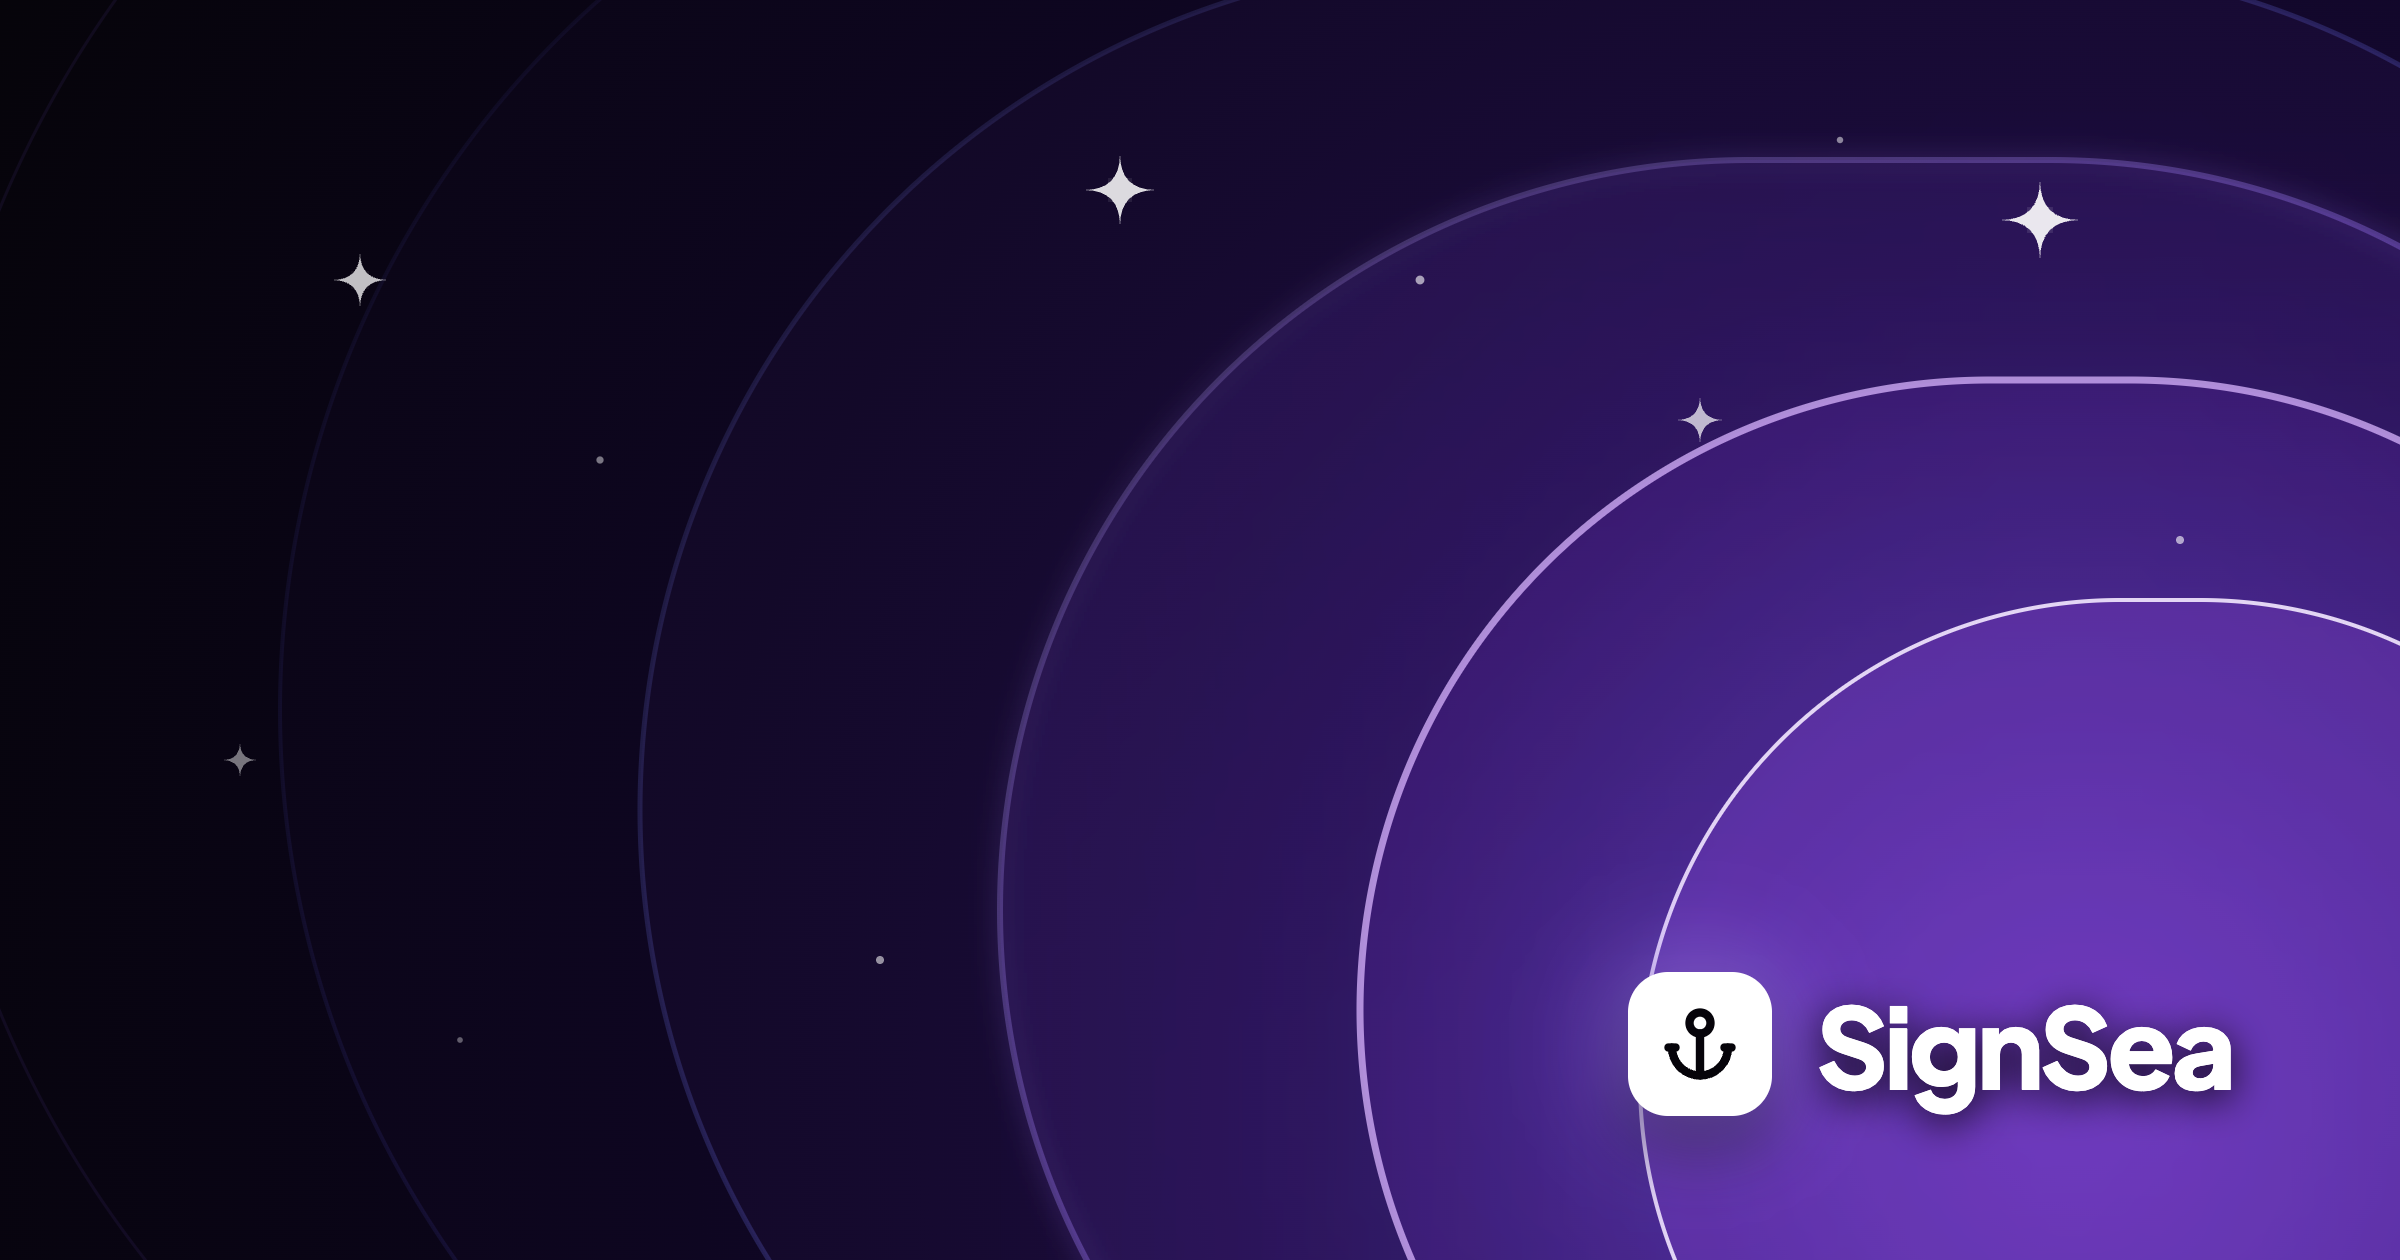
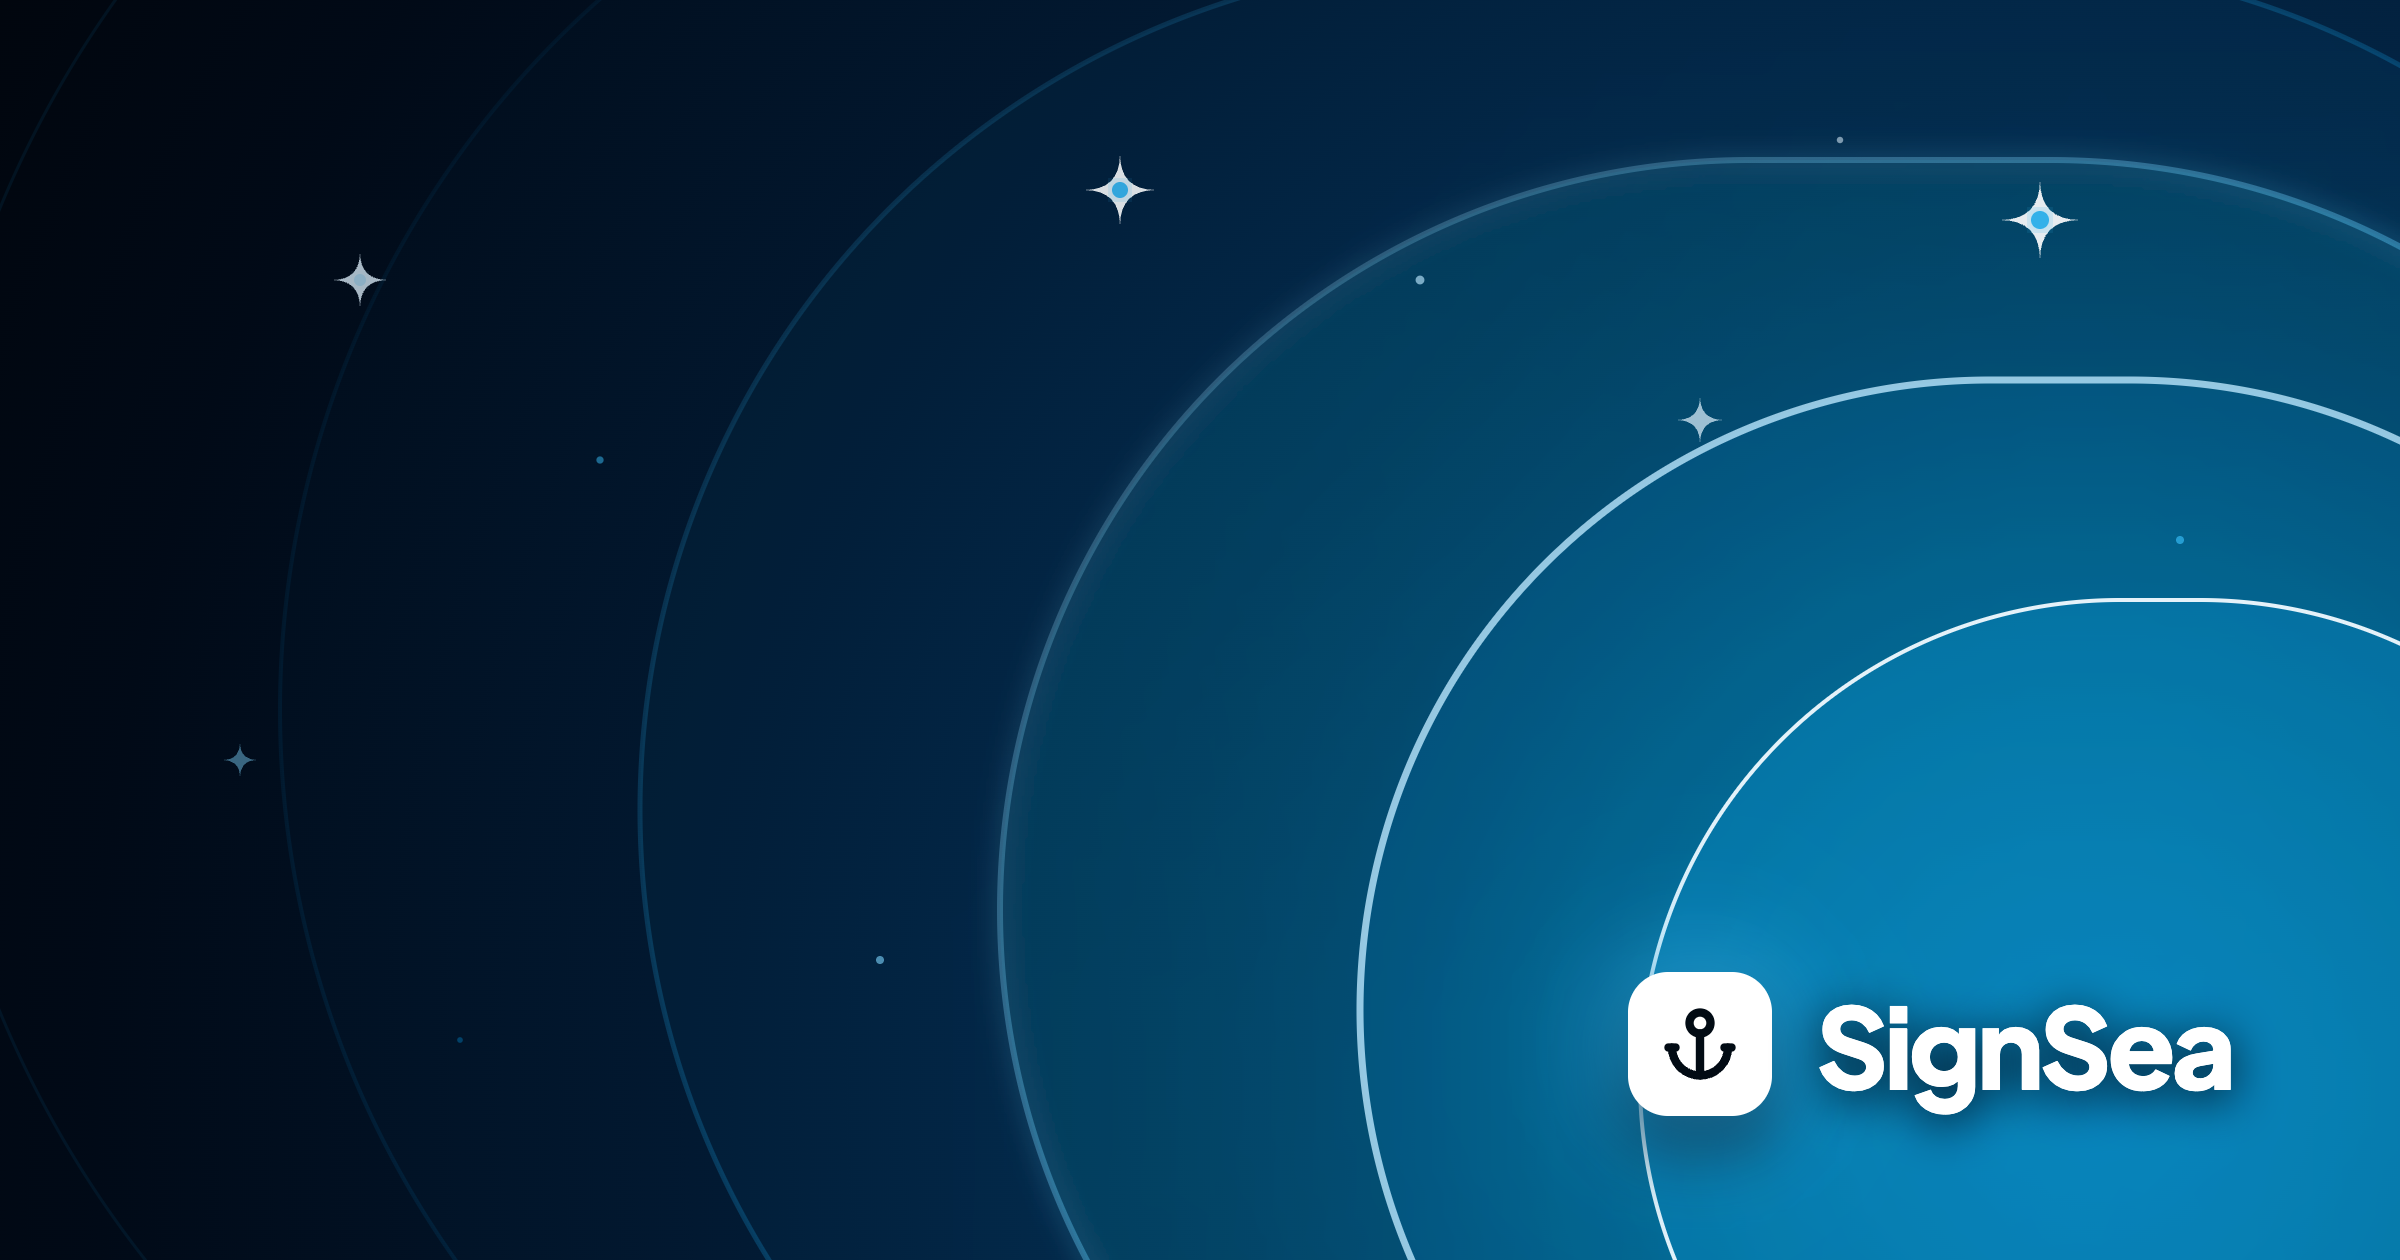
Update OpenGraph image with deep oceanic sea theme and bioluminescent ripple waves

diff --git a/app/opengraph-image.tsx b/app/opengraph-image.tsx
@@ -43,14 +43,14 @@ export default async function Image() {
           width: '100%',
           height: '100%',
           display: 'flex',
-          backgroundColor: '#06040A',
+          backgroundColor: '#020712',
           color: '#ffffff',
           fontFamily: 'Geist, system-ui, -apple-system, sans-serif',
           position: 'relative',
           overflow: 'hidden',
         }}
       >
-        {/* Background Concentric Radiant Glow & Curves (Inspired by Reference 3) */}
+        {/* Oceanic Background & Wave Ripple Contours */}
         <svg
           width="1200"
           height="630"
@@ -64,160 +64,151 @@ export default async function Image() {
           }}
         >
           <defs>
-            {/* Deep Cosmic Radial Gradient */}
-            <radialGradient id="bgGlow" cx="82%" cy="80%" r="85%" fx="82%" fy="80%">
-              <stop offset="0%" stopColor="#2E1065" stopOpacity="0.85" />
-              <stop offset="25%" stopColor="#1E0B3C" stopOpacity="0.75" />
-              <stop offset="55%" stopColor="#0F061E" stopOpacity="0.9" />
-              <stop offset="100%" stopColor="#050308" stopOpacity="1" />
+            {/* Deep Abyssal Radial Gradient */}
+            <radialGradient id="oceanBgGlow" cx="88%" cy="86%" r="85%" fx="88%" fy="86%">
+              <stop offset="0%" stopColor="#034574" stopOpacity="0.95" />
+              <stop offset="28%" stopColor="#032B4F" stopOpacity="0.85" />
+              <stop offset="58%" stopColor="#021830" stopOpacity="0.92" />
+              <stop offset="85%" stopColor="#010A17" stopOpacity="0.98" />
+              <stop offset="100%" stopColor="#01060E" stopOpacity="1" />
             </radialGradient>
 
-            {/* Vibrant Core Glow at Bottom Right */}
-            <radialGradient id="coreAura" cx="84%" cy="82%" r="35%">
-              <stop offset="0%" stopColor="#8B5CF6" stopOpacity="0.45" />
-              <stop offset="40%" stopColor="#6366F1" stopOpacity="0.2" />
-              <stop offset="100%" stopColor="#06040A" stopOpacity="0" />
+            {/* Bioluminescent Radiant Aura at Bottom Right */}
+            <radialGradient id="oceanCoreAura" cx="86%" cy="84%" r="40%">
+              <stop offset="0%" stopColor="#0EA5E9" stopOpacity="0.45" />
+              <stop offset="35%" stopColor="#0284C7" stopOpacity="0.22" />
+              <stop offset="100%" stopColor="#020712" stopOpacity="0" />
             </radialGradient>
 
-            {/* Linear strokes for concentric rounded stadium rings */}
-            <linearGradient id="ringGrad1" x1="0%" y1="0%" x2="100%" y2="100%">
-              <stop offset="0%" stopColor="#A78BFA" stopOpacity="0.25" />
-              <stop offset="70%" stopColor="#7C3AED" stopOpacity="0.6" />
-              <stop offset="100%" stopColor="#C4B5FD" stopOpacity="0.8" />
+            {/* Tidal wave contour gradients */}
+            <linearGradient id="waveGrad1" x1="0%" y1="0%" x2="100%" y2="100%">
+              <stop offset="0%" stopColor="#BAE6FD" stopOpacity="0.2" />
+              <stop offset="60%" stopColor="#38BDF8" stopOpacity="0.55" />
+              <stop offset="100%" stopColor="#E0F2FE" stopOpacity="0.85" />
             </linearGradient>
 
-            <linearGradient id="ringGrad2" x1="0%" y1="0%" x2="100%" y2="100%">
-              <stop offset="0%" stopColor="#818CF8" stopOpacity="0.12" />
-              <stop offset="70%" stopColor="#4F46E5" stopOpacity="0.35" />
-              <stop offset="100%" stopColor="#A5B4FC" stopOpacity="0.5" />
+            <linearGradient id="waveGrad2" x1="0%" y1="0%" x2="100%" y2="100%">
+              <stop offset="0%" stopColor="#38BDF8" stopOpacity="0.12" />
+              <stop offset="60%" stopColor="#0284C7" stopOpacity="0.38" />
+              <stop offset="100%" stopColor="#7DD3FC" stopOpacity="0.65" />
             </linearGradient>
 
-            <linearGradient id="ringGrad3" x1="0%" y1="0%" x2="100%" y2="100%">
-              <stop offset="0%" stopColor="#6366F1" stopOpacity="0.05" />
-              <stop offset="100%" stopColor="#4338CA" stopOpacity="0.2" />
-            </linearGradient>
-
-            <linearGradient id="logoBgGrad" x1="0%" y1="0%" x2="100%" y2="100%">
-              <stop offset="0%" stopColor="#1E1B4B" stopOpacity="0.9" />
-              <stop offset="100%" stopColor="#0F0D24" stopOpacity="0.95" />
+            <linearGradient id="waveGrad3" x1="0%" y1="0%" x2="100%" y2="100%">
+              <stop offset="0%" stopColor="#0284C7" stopOpacity="0.06" />
+              <stop offset="100%" stopColor="#0369A1" stopOpacity="0.25" />
             </linearGradient>
           </defs>
 
-          {/* Base Ambient Canvas */}
-          <rect width="1200" height="630" fill="url(#bgGlow)" />
-          <rect width="1200" height="630" fill="url(#coreAura)" />
+          {/* Deep Sea Ambient Base */}
+          <rect width="1200" height="630" fill="url(#oceanBgGlow)" />
+          <rect width="1200" height="630" fill="url(#oceanCoreAura)" />
 
-          {/* Concentric Layered Curved Horizons radiating toward bottom right */}
-          {/* Outer Ring 5 */}
+          {/* Concentric Oceanic Horizon Ripples */}
+          {/* Outer Ripple 5 */}
           <rect
-            x="20"
-            y="-180"
-            width="1400"
-            height="950"
-            rx="475"
+            x="-40"
+            y="-220"
+            width="1500"
+            height="1050"
+            rx="525"
             fill="none"
-            stroke="rgba(139, 92, 246, 0.07)"
+            stroke="rgba(14, 165, 233, 0.08)"
             strokeWidth="1.5"
           />
 
-          {/* Outer Ring 4 */}
+          {/* Swell Ripple 4 */}
           <rect
-            x="180"
-            y="-80"
-            width="1200"
-            height="850"
-            rx="425"
-            fill="none"
-            stroke="url(#ringGrad3)"
+            x="140"
+            y="-120"
+            width="1300"
+            height="950"
+            rx="475"
+            fill="rgba(2, 132, 199, 0.02)"
+            stroke="url(#waveGrad3)"
             strokeWidth="2"
           />
 
-          {/* Middle Ring 3 */}
+          {/* Wave Ripple 3 */}
           <rect
-            x="340"
-            y="20"
-            width="1000"
-            height="750"
-            rx="375"
-            fill="rgba(124, 58, 237, 0.04)"
-            stroke="url(#ringGrad2)"
+            x="320"
+            y="-20"
+            width="1100"
+            height="850"
+            rx="425"
+            fill="rgba(14, 165, 233, 0.04)"
+            stroke="url(#waveGrad2)"
             strokeWidth="2.5"
           />
 
-          {/* Inner Ring 2 */}
+          {/* Current Ripple 2 */}
           <rect
             x="500"
-            y="120"
-            width="800"
-            height="650"
-            rx="325"
-            fill="rgba(139, 92, 246, 0.07)"
-            stroke="url(#ringGrad1)"
+            y="80"
+            width="900"
+            height="750"
+            rx="375"
+            fill="rgba(6, 182, 212, 0.07)"
+            stroke="url(#waveGrad1)"
             strokeWidth="3"
           />
 
-          {/* Core Focus Ring 1 */}
+          {/* Inner Tidal Arc 1 */}
           <rect
-            x="660"
-            y="220"
-            width="620"
-            height="550"
-            rx="275"
-            fill="rgba(167, 139, 250, 0.1)"
-            stroke="rgba(196, 181, 253, 0.7)"
+            x="680"
+            y="190"
+            width="700"
+            height="630"
+            rx="315"
+            fill="rgba(2, 132, 199, 0.14)"
+            stroke="rgba(186, 230, 253, 0.8)"
             strokeWidth="3.5"
           />
 
-          {/* Innermost Horizon Fill */}
+          {/* Innermost Aqua Pool */}
           <rect
-            x="780"
-            y="320"
-            width="480"
-            height="450"
-            rx="225"
-            fill="rgba(147, 51, 234, 0.16)"
-            stroke="rgba(233, 213, 255, 0.85)"
+            x="820"
+            y="300"
+            width="520"
+            height="480"
+            rx="240"
+            fill="rgba(14, 165, 233, 0.22)"
+            stroke="rgba(240, 249, 255, 0.95)"
             strokeWidth="2"
           />
 
-          {/* Scattered Subtle 4-Point Sparkling Stars (Inspired by Reference 2 & 3) */}
-          {/* Star 1 - Top Left */}
-          <g transform="translate(180, 140)" opacity="0.65">
-            <path d="M0,-12 Q0,0 12,0 Q0,0 0,12 Q0,0 -12,0 Q0,0 0,-12 Z" fill="#ffffff" />
+          {/* Oceanic Caustic Shimmers & Light Gleams */}
+          {/* Shimmer 1 - Top Left */}
+          <g transform="translate(180, 140)" opacity="0.75">
+            <path d="M0,-14 Q0,0 14,0 Q0,0 0,14 Q0,0 -14,0 Q0,0 0,-14 Z" fill="#E0F2FE" />
           </g>
 
-          {/* Star 2 - Top Center */}
-          <g transform="translate(540, 95)" opacity="0.8">
-            <path d="M0,-16 Q0,0 16,0 Q0,0 0,16 Q0,0 -16,0 Q0,0 0,-16 Z" fill="#ffffff" />
+          {/* Shimmer 2 - Top Center */}
+          <g transform="translate(560, 95)" opacity="0.85">
+            <path d="M0,-18 Q0,0 18,0 Q0,0 0,18 Q0,0 -18,0 Q0,0 0,-18 Z" fill="#FFFFFF" />
           </g>
 
-          {/* Star 3 - Mid Left */}
-          <g transform="translate(110, 360)" opacity="0.4">
-            <path d="M0,-8 Q0,0 8,0 Q0,0 0,8 Q0,0 -8,0 Q0,0 0,-8 Z" fill="#ffffff" />
+          {/* Shimmer 3 - Mid Left */}
+          <g transform="translate(120, 380)" opacity="0.45">
+            <path d="M0,-9 Q0,0 9,0 Q0,0 0,9 Q0,0 -9,0 Q0,0 0,-9 Z" fill="#7DD3FC" />
           </g>
 
-          {/* Star 4 - Mid Center Upper */}
-          <g transform="translate(420, 290)" opacity="0.55">
-            <path d="M0,-10 Q0,0 10,0 Q0,0 0,10 Q0,0 -10,0 Q0,0 0,-10 Z" fill="#ffffff" />
+          {/* Shimmer 4 - Upper Right */}
+          <g transform="translate(1020, 110)" opacity="0.9">
+            <path d="M0,-20 Q0,0 20,0 Q0,0 0,20 Q0,0 -20,0 Q0,0 0,-20 Z" fill="#FFFFFF" />
           </g>
 
-          {/* Star 5 - Top Right */}
-          <g transform="translate(980, 110)" opacity="0.85">
-            <path d="M0,-18 Q0,0 18,0 Q0,0 0,18 Q0,0 -18,0 Q0,0 0,-18 Z" fill="#ffffff" />
+          {/* Shimmer 5 - Right Center */}
+          <g transform="translate(850, 210)" opacity="0.7">
+            <path d="M0,-12 Q0,0 12,0 Q0,0 0,12 Q0,0 -12,0 Q0,0 0,-12 Z" fill="#E0F2FE" />
           </g>
 
-          {/* Star 6 - Center Right */}
-          <g transform="translate(820, 210)" opacity="0.7">
-            <path d="M0,-11 Q0,0 11,0 Q0,0 0,11 Q0,0 -11,0 Q0,0 0,-11 Z" fill="#ffffff" />
-          </g>
-
-          {/* Small micro star dust points */}
-          <circle cx="280" cy="220" r="1.5" fill="#ffffff" opacity="0.4" />
-          <circle cx="340" cy="460" r="1.8" fill="#ffffff" opacity="0.5" />
-          <circle cx="680" cy="150" r="2" fill="#ffffff" opacity="0.6" />
-          <circle cx="890" cy="80" r="1.5" fill="#ffffff" opacity="0.45" />
-          <circle cx="1060" cy="260" r="2" fill="#ffffff" opacity="0.55" />
-          <circle cx="220" cy="510" r="1.2" fill="#ffffff" opacity="0.35" />
+          {/* Marine Bioluminescent Micro-Points */}
+          <circle cx="300" cy="230" r="1.8" fill="#38BDF8" opacity="0.5" />
+          <circle cx="440" cy="480" r="2" fill="#7DD3FC" opacity="0.6" />
+          <circle cx="710" cy="140" r="2.2" fill="#BAE6FD" opacity="0.65" />
+          <circle cx="920" cy="70" r="1.6" fill="#E0F2FE" opacity="0.55" />
+          <circle cx="1090" cy="270" r="2" fill="#38BDF8" opacity="0.65" />
+          <circle cx="230" cy="520" r="1.4" fill="#0284C7" opacity="0.4" />
         </svg>
 
         {/* BOTTOM RIGHT CORNER: Pure, Minimalist, Precise Logo & Text */}
@@ -232,19 +223,19 @@ export default async function Image() {
             zIndex: 50,
           }}
         >
-          {/* Logo Mark Icon Container */}
+          {/* Logo Mark Container */}
           <div
             style={{
               width: '68px',
               height: '68px',
               borderRadius: '18px',
-              backgroundColor: 'rgba(255, 255, 255, 0.98)',
+              backgroundColor: '#FFFFFF',
               display: 'flex',
               alignItems: 'center',
               justifyContent: 'center',
               boxShadow:
-                '0 0 40px rgba(167, 139, 250, 0.6), 0 0 80px rgba(124, 58, 237, 0.35), 0 12px 24px rgba(0, 0, 0, 0.6)',
-              border: '1px solid rgba(255, 255, 255, 0.8)',
+                '0 0 50px rgba(56, 189, 248, 0.7), 0 0 100px rgba(14, 165, 233, 0.45), 0 16px 32px rgba(1, 10, 23, 0.8)',
+              border: '1.5px solid rgba(255, 255, 255, 0.95)',
             }}
           >
             {/* SignSea Anchor Mark */}
@@ -253,7 +244,7 @@ export default async function Image() {
               height="38"
               viewBox="0 0 24 24"
               fill="none"
-              stroke="#070510"
+              stroke="#020B14"
               strokeWidth="2.4"
               strokeLinecap="round"
               strokeLinejoin="round"
@@ -281,7 +272,7 @@ export default async function Image() {
                 letterSpacing: '-0.04em',
                 color: '#ffffff',
                 lineHeight: 1,
-                textShadow: '0 4px 24px rgba(0, 0, 0, 0.8)',
+                textShadow: '0 4px 24px rgba(1, 10, 23, 0.95)',
               }}
             >
               SignSea
